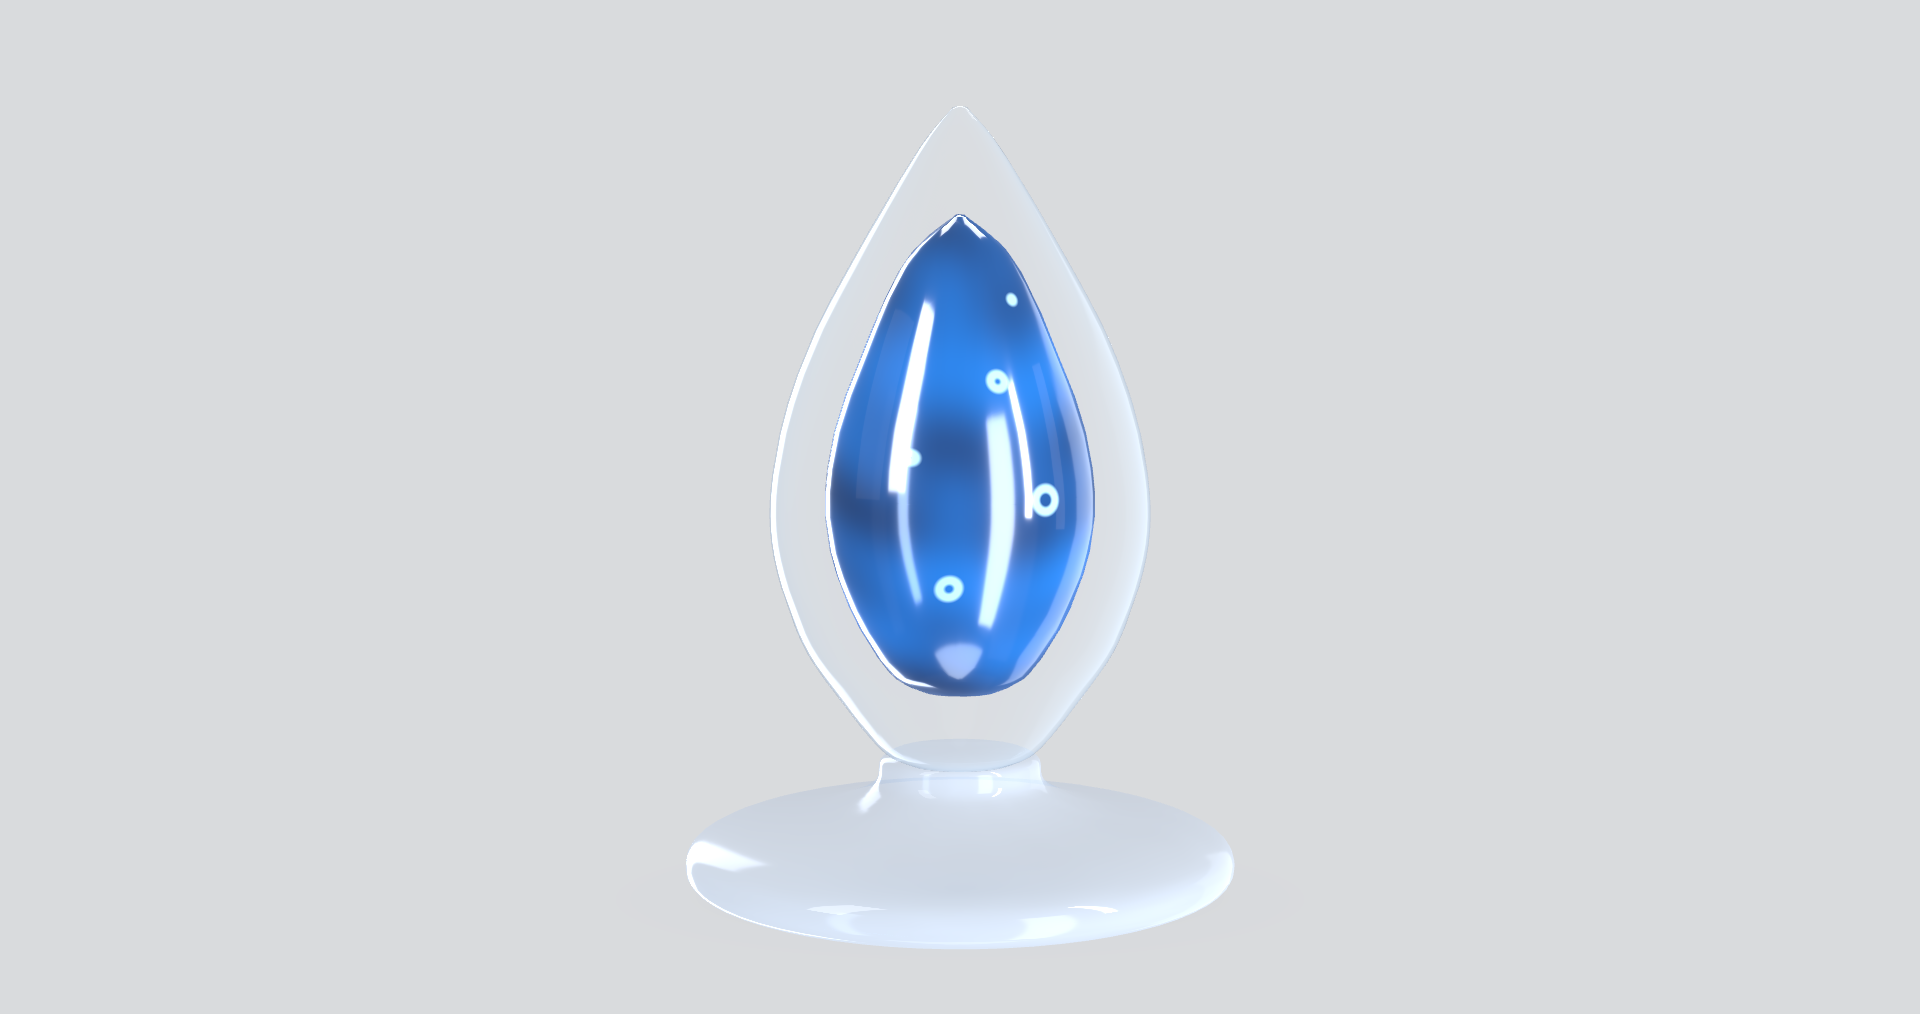
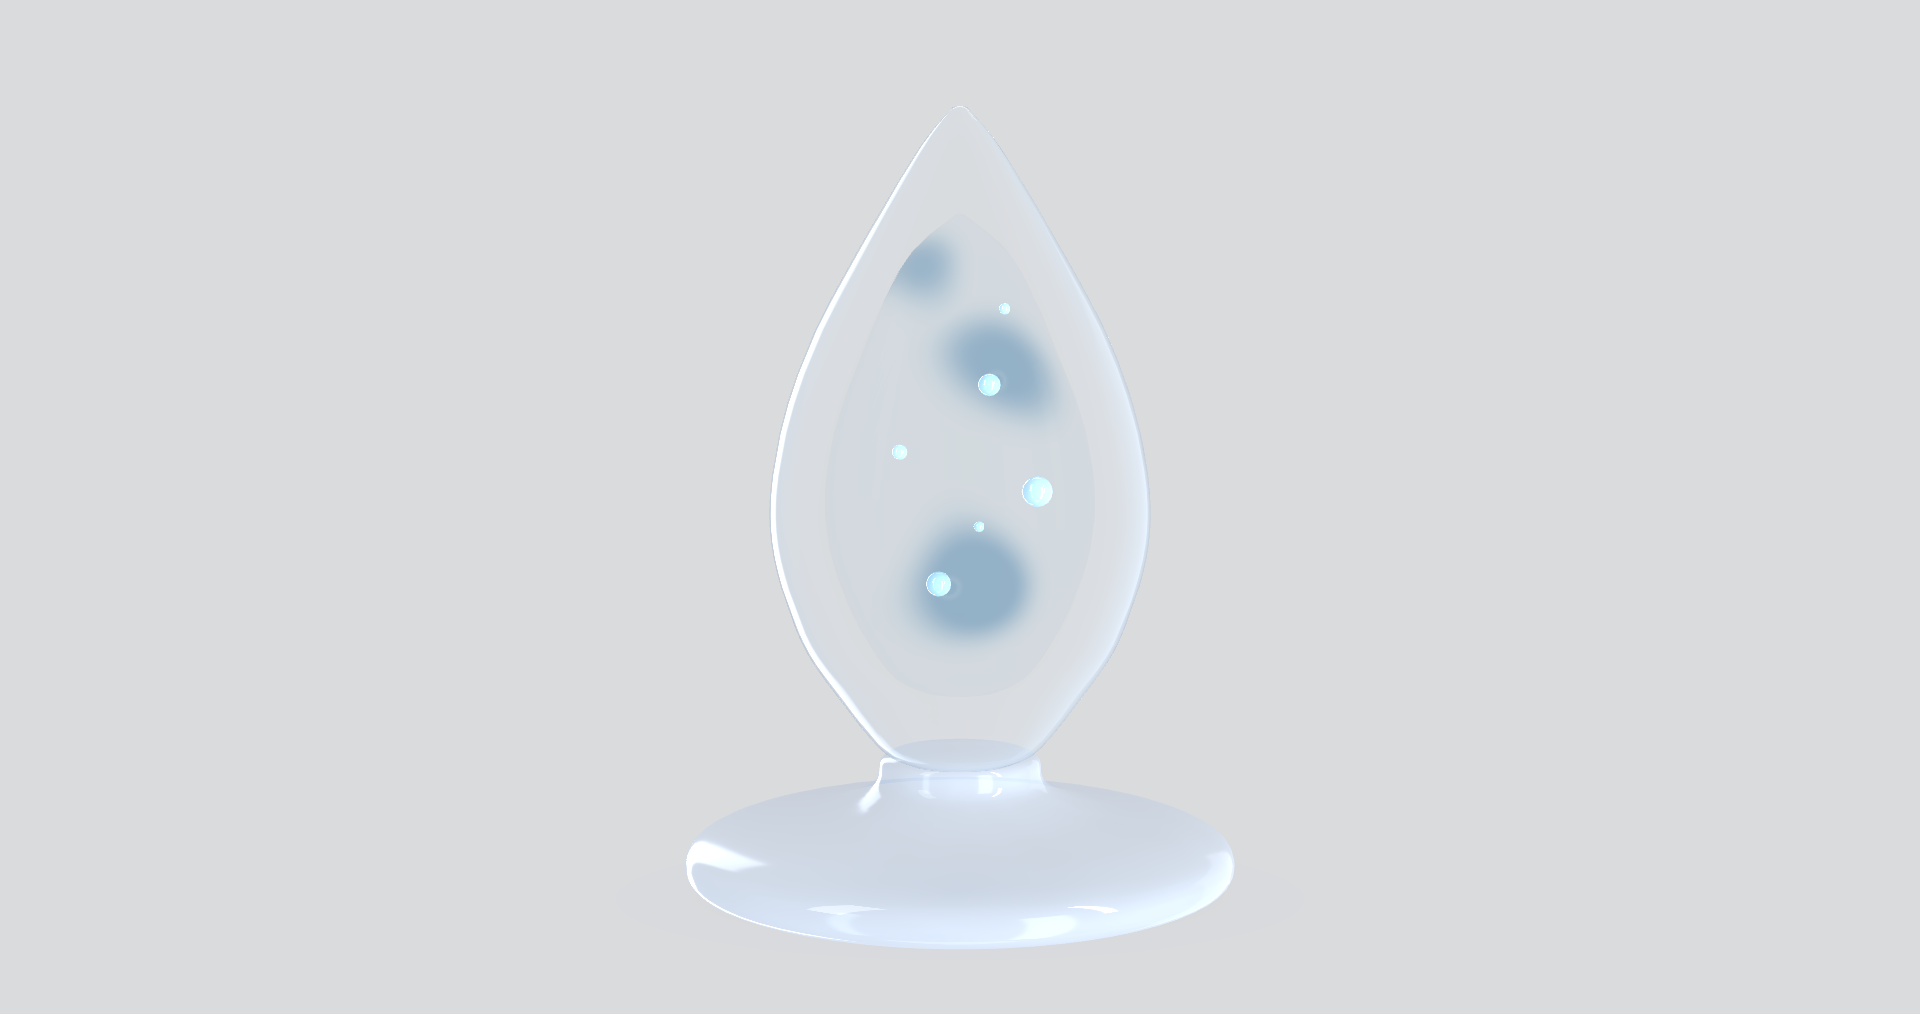
Soften translucent gel palette and add drifting density

Changed region(s): [[0.4062, 0.214, 0.5938, 0.7032]]

diff --git a/docs/PRODUCT_RENDERING_PLAN.md b/docs/PRODUCT_RENDERING_PLAN.md
@@ -17,10 +17,11 @@ vehicle scale, or world lighting.
   lighting sample the synthetic EXR. Three `AreaLight3D` instances add direct
   rectangular highlights. Drag the viewport to inspect; Space toggles rotation.
 - The Blender asset has separate clear shell, gel core, base, and bubble meshes.
-  Godot applies independent materials. The gel shader moves a blue tonal wave
-  and adds readable bubble rims on its surface.
-- `tools/capture_product_preview.gd` records front and side views from the real
-  Forward+ renderer into `screenshots/`.
+  Godot applies independent materials. The gel shader uses translucent pale
+  ice blue and slowly moving, locally denser blue regions. The bubble meshes
+  remain separately animated and visible through the gel.
+- `tools/capture_product_preview.gd` records front, side and later motion views
+  from the real Forward+ renderer into `screenshots/`.
 
 ## Quality gates and next steps
 
@@ -29,8 +30,10 @@ vehicle scale, or world lighting.
 2. **Glass and light:** tune EXR panel positions, widths and luminance while
    rotating the object. The shell should keep a transparent center, readable
    edges and controlled long highlights at every useful inspection angle.
-3. **Gel motion:** replace the placeholder tonal wave and surface bubble rims
-   with a coherent fluid or gel treatment. Judge motion in video and at rest.
+3. **Gel motion:** judge whether the slowly drifting density regions read as
+   suspended gel from all inspection angles. If they still look like surface
+   marks, build a layered or volumetric treatment. Judge motion in video and
+   at rest.
 4. **Material variants:** only after the classic drop is accepted, reuse the
    preview stage for the elongated, faceted, double shell and thermal color
    concepts. Keep geometry and material variants separate from the stage.
@@ -43,10 +46,10 @@ vehicle scale, or world lighting.
 This is a first real-time approximation, not a physical glass simulation.
 Godot's normal screen-space refraction cannot reliably sample another
 transparent layer inside a clear shell, so the current shell uses a Fresnel
-transparency shader and the core remains opaque. The moving bubbles in the
-GLB are present as editable source geometry; the visible bubble rims are
-currently a shader treatment on the blue core. More convincing internal depth
-and liquid motion remain the main visual risks to resolve before calling the
+transparency shader and the core uses a translucent surface shader. The
+changing areas of density approximate moving gel; they are not a physical
+volumetric fluid simulation. More convincing internal depth, refraction and
+liquid motion remain the main visual risks to resolve before calling the
 product look final.
 
 The source `.blend` sits under `source/.gdignore` so Godot imports the exported
